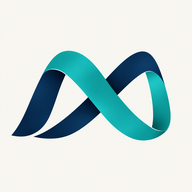
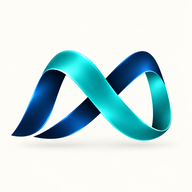
Keep public app shell available offline and refresh Mirkam branding

diff --git a/public/mirkam/index.html b/public/mirkam/index.html
@@ -1,6 +1,6 @@
-<!doctype html><html lang="he" dir="rtl"><head><meta charset="utf-8"><meta name="viewport" content="width=device-width,initial-scale=1"><link rel="manifest" href="/manifest.webmanifest?v=ribbon-1" crossorigin="use-credentials"><meta name="theme-color" content="#17324d"><meta name="apple-mobile-web-app-capable" content="yes"><meta name="apple-mobile-web-app-title" content="Mavrika AI"><link rel="icon" type="image/png" sizes="192x192" href="/icon-192.png?v=ribbon-1"><link rel="apple-touch-icon" href="/icon-192.png?v=ribbon-1"><title>מרקם ליין | Mavrika AI</title><link rel="stylesheet" href="/style.css"></head>
-<body><aside class="suite-sidebar"><div class="suite-brand">Mavrika AI<small>סביבת העבודה שלך</small></div><nav aria-label="קטגוריות התוכנה"><button id="suite-home">סקירה כללית</button><button id="suite-line">מרקם ליין · המודול המרכזי</button><button id="suite-chats">שיחות</button><button id="suite-documents">מסמכים וטיוטות</button><button id="suite-family">קשר עם המשפחה</button><button id="suite-management">ניהול המערכת</button></nav><p>מרקם ליין<small>חמש שלוחות טלפוניות, באותה מערכת</small></p></aside><main><header><div class="brand">MIRKAM <span>LINE</span><small>by Mavrika AI</small></div><p class="eyebrow">לכתוב. לשמור. לקבל עזרה.</p><h1>כל העבודה, במקום אחד.</h1><p>ברוכים הבאים למרקם ליין. כאן תוכלו להכין מסמכים, להמשיך שיחות ולשמור על קשר.</p></header>
-<button id="install-app" hidden>הוספה למסך הבית</button><div id="status" role="status" aria-live="polite"></div>
+<!doctype html><html lang="he" dir="rtl"><head><meta charset="utf-8"><meta name="viewport" content="width=device-width,initial-scale=1"><link rel="manifest" href="/manifest.webmanifest?v=ribbon-shine-3" crossorigin="use-credentials"><meta name="theme-color" content="#17324d"><meta name="apple-mobile-web-app-capable" content="yes"><meta name="apple-mobile-web-app-title" content="Mavrika AI"><link rel="icon" type="image/png" sizes="192x192" href="/icon-192.png?v=ribbon-shine-3"><link rel="apple-touch-icon" href="/icon-192.png?v=ribbon-shine-3"><title>מרקם ליין | Mavrika AI</title><link rel="stylesheet" href="/style.css"></head>
+<body><aside class="suite-sidebar"><div class="suite-brand"><img src="/icon-192.png?v=ribbon-shine-3" alt="" width="48" height="48">Mavrika AI<small>סביבת העבודה שלך</small></div><nav aria-label="קטגוריות התוכנה"><button id="suite-home">סקירה כללית</button><button id="suite-line">מרקם ליין · המודול המרכזי</button><button id="suite-chats">שיחות</button><button id="suite-documents">מסמכים וטיוטות</button><button id="suite-family">קשר עם המשפחה</button><button id="suite-management">ניהול המערכת</button></nav><p>מרקם ליין<small>חמש שלוחות טלפוניות, באותה מערכת</small></p></aside><main><header><div class="brand"><img class="brand-logo" src="/brand-logo.png?v=ribbon-shine-3" alt="Mirkam Line — מרקם ליין" width="768" height="768"><small>by Mavrika AI</small></div><p class="eyebrow">לכתוב. לשמור. לקבל עזרה.</p><h1>כל העבודה, במקום אחד.</h1><p>ברוכים הבאים למרקם ליין. כאן תוכלו להכין מסמכים, להמשיך שיחות ולשמור על קשר.</p></header>
+<button id="install-app" hidden>הוספה למסך הבית</button><div class="connection-panel" role="status" aria-live="polite"><span id="connection-state">בודקים חיבור לשירות…</span><button id="retry-connection" type="button" hidden>בדיקת חיבור</button></div><p id="offline-ready" class="muted"></p><div id="status" role="status" aria-live="polite"></div>
 <section id="login"><h2>כניסה לחשבון</h2><form id="login-form"><label>קוד משתמש<input id="code" inputmode="numeric" pattern="[0-9]{6}" maxlength="6" required autocomplete="username"></label><label>קוד אישי<input id="pin" type="password" inputmode="numeric" pattern="[0-9]{6}" maxlength="6" required autocomplete="current-password"></label><button class="primary">כניסה</button></form></section>
 <section id="workspace" hidden><div class="toolbar"><span id="welcome"></span><button id="home">התפריט הראשי</button><button id="logout">יציאה</button></div><nav id="branches" aria-label="שלוחות השירות"></nav><section id="pane"></section></section>
 <details id="admin" hidden><summary>ניהול Mavrika AI</summary><form id="staff-login-form"><h2>כניסה אישית לניהול</h2><label>שם משתמש<input id="staff-username" autocomplete="username" required></label><label>סיסמה<input id="staff-password" type="password" autocomplete="current-password" required></label><label>קוד מאפליקציית האימות<input id="staff-otp" inputmode="numeric" autocomplete="one-time-code" required></label><button class="primary">כניסה לניהול</button></form><button id="admin-logout">יציאה מניהול</button><details><summary>הגדרה ראשונית באמצעות קוד הניהול</summary><label>קוד הניהול<input id="admin-token" type="password" autocomplete="off"></label><label>קוד אימות נוסף, אם הוגדר<input id="otp" inputmode="numeric" autocomplete="one-time-code"></label><button id="owner-setup">יצירת המשתמש האישי של בעלת המערכת</button></details><div class="actions"><button id="admin-users">משתמשים</button><button id="admin-status">מצב חיבורים</button><button id="admin-destinations">יעדים מאומתים</button><button id="admin-contacts">אישור איש קשר</button><button id="admin-announcement">הודעת חברה</button><button id="admin-tickets">פניות משרד</button></div><section id="admin-pane"></section></details>

diff --git a/public/mirkam/style.css b/public/mirkam/style.css
@@ -1,3 +1,6 @@
 :root{--navy:#17324d;--teal:#238c87;--paper:#f6f4ef;--ink:#252c35}*{box-sizing:border-box}body{margin:0;background:var(--paper);font-family:Arial,sans-serif;color:var(--ink);line-height:1.7}main{max-width:1000px;margin:auto;padding:24px}header{padding:24px 0 36px}.brand{direction:ltr;text-align:right;font-size:30px;font-weight:800;letter-spacing:3px;color:var(--navy)}.brand span{color:var(--teal)}.brand small{display:block;font-size:12px;letter-spacing:1px}.eyebrow{color:var(--teal);font-weight:bold}h1{color:var(--navy);font-size:clamp(28px,5vw,46px);line-height:1.3}h2,h3{color:var(--navy)}section,details{background:white;padding:24px;margin-bottom:20px;border-radius:20px;border:1px solid #deded9}section section{padding:16px}label{display:block;margin:12px 0}input,textarea,select{display:block;width:100%;padding:14px;border:1px solid #aebbbd;border-radius:10px;font:inherit;margin-top:6px}textarea{min-height:130px;resize:vertical}button{font:inherit;background:#e9efed;color:var(--navy);border:1px solid #b9cbc8;padding:12px 20px;border-radius:12px;cursor:pointer;min-height:48px}.primary{background:var(--teal);color:white;border-color:var(--teal)}button:disabled{opacity:.5;cursor:wait}button:focus-visible,input:focus-visible,textarea:focus-visible{outline:3px solid #c38e32;outline-offset:2px}.actions,.toolbar{display:flex;flex-wrap:wrap;gap:10px;margin:16px 0}nav{display:grid;grid-template-columns:repeat(auto-fit,minmax(180px,1fr));gap:12px;margin-bottom:20px}nav button{text-align:right;min-height:95px;background:var(--navy);color:white}#status:not(:empty){padding:16px;background:#fff3ce;border-radius:12px;margin-bottom:16px}pre{font:inherit;white-space:pre-wrap;overflow-wrap:anywhere;background:var(--paper);padding:16px;border-radius:12px}footer{font-size:14px;color:#54616b;margin:24px 0}.muted{color:#64727b}.message{padding:12px;border-inline-start:3px solid var(--teal);background:#f2f7f6;margin:10px 0}summary{cursor:pointer;font-weight:bold}[hidden]{display:none!important}@media(max-width:600px){main{padding:12px}section,details{padding:18px}.actions button{flex:1}nav{grid-template-columns:1fr}nav button{min-height:65px}}
 
 body{display:grid;grid-template-columns:260px minmax(0,1fr)}main{width:100%;max-width:1100px}.suite-sidebar{background:var(--navy);color:white;padding:28px 18px;min-height:100vh;position:sticky;top:0;height:100vh;overflow:auto}.suite-brand{direction:ltr;font-size:27px;font-weight:bold}.suite-sidebar small{display:block;font-size:13px;font-weight:normal;opacity:.8}.suite-sidebar nav{display:flex;flex-direction:column;margin-top:30px}.suite-sidebar nav button{min-height:50px;border-color:#446078; background:transparent}.suite-sidebar nav button[aria-current="page"]{background:var(--teal);border-color:var(--teal)}.overview-grid{display:grid;grid-template-columns:repeat(auto-fit,minmax(220px,1fr));gap:12px}.overview-grid button{text-align:right;min-height:100px}#admin{scroll-margin-top:20px}@media(max-width:760px){body{display:block}.suite-sidebar{position:static;height:auto;min-height:0;padding:14px}.suite-sidebar nav{display:grid;grid-template-columns:repeat(2,minmax(0,1fr));margin:12px 0}.suite-sidebar nav button{font-size:14px;padding:8px}.suite-sidebar>p{display:none}header{padding:14px 0}h1{font-size:30px}}
+
+/* Refined Mirkam brand and a compact phone layout. */
+body{background:radial-gradient(ellipse at 25% 0%,#e5f6f2 0,transparent 48%),var(--paper)}.suite-sidebar{background:linear-gradient(160deg,#102b45,#174d60);border-inline-end:1px solid #ffffff20}.suite-brand{display:flex;align-items:center;gap:12px;flex-wrap:wrap}.suite-brand img{border-radius:14px}.suite-brand small{flex-basis:100%}.suite-sidebar nav button{border-radius:14px;transition:background .15s,transform .15s}.suite-sidebar nav button:hover{background:#ffffff14}.suite-sidebar nav button[aria-current="page"]{background:linear-gradient(120deg,#087d83,#1b9c92);box-shadow:0 5px 18px #001d3040}.brand-logo{display:block;width:min(100%,330px);height:auto;margin-inline-start:auto;border-radius:28px}.brand small{margin-top:8px;letter-spacing:1px}header{padding-top:0}h1{font-size:clamp(28px,4vw,42px)}section,details{border-color:#dce7e3;box-shadow:0 8px 28px #123f4b08}.primary{background:linear-gradient(120deg,#087d83,#18988c);box-shadow:0 4px 12px #178d8525}.connection-panel{display:flex;align-items:center;justify-content:space-between;gap:12px;padding:12px 16px;border:1px solid #d2e6df;background:#eef8f2;border-radius:14px;margin:16px 0 4px;font-size:14px}.connection-panel.unavailable{background:#fff4dd;border-color:#e8d6ad}.connection-panel button{font-size:13px;padding:8px 12px;flex-shrink:0}#offline-ready{font-size:13px;margin:6px 4px 16px}input,textarea{background:#fbfdfc}button:active{transform:translateY(1px)}@media(max-width:760px){.suite-sidebar{padding:12px 16px}.suite-brand{font-size:22px;gap:8px}.suite-brand img{width:36px;height:36px;border-radius:10px}.suite-brand small{flex-basis:auto;margin-inline-start:auto;font-size:11px}.suite-sidebar nav{grid-template-columns:repeat(3,minmax(0,1fr));gap:7px}.suite-sidebar nav button{font-size:12px;line-height:1.4;padding:8px 6px;min-height:48px}.brand-logo{width:220px;margin:0 auto}.brand small{text-align:center}header{text-align:center;padding-bottom:16px}.eyebrow{margin:10px 0}h1{font-size:28px;margin:12px 0}header>p:last-child{font-size:15px}.connection-panel{align-items:flex-start}main{padding:16px}}@media(prefers-reduced-motion:reduce){button{transition:none!important;transform:none!important}}

diff --git a/public/mirkam/app.js b/public/mirkam/app.js
@@ -11,7 +11,7 @@ function node(tag,text){const n=document.createElement(tag);if(text!==undefined)
 function clear(title){pane.replaceChildren(node('h2',title));}
 function button(text,fn,parent=pane){const b=node('button',text);b.onclick=()=>run(fn);parent.append(b);return b;}
 function input(label,type='text',parent=pane){const l=node('label',label),i=document.createElement(type==='textarea'?'textarea':'input');if(type!=='textarea')i.type=type;l.append(i);parent.append(l);return i;}
-async function api(route,method='GET',data,admin=false,binary=false){const controller=new AbortController(),timer=setTimeout(()=>controller.abort(),45000);try{const r=await fetch('/api/'+route,{method,headers:{Authorization:'Bearer '+(admin?(adminSession||$('admin-token').value):token),...(data?{'Content-Type':'application/json'}:{}),...(admin?{'X-Mirkam-OTP':$('otp').value}:{})},body:data?JSON.stringify(data):undefined,signal:controller.signal});if(binary&&r.ok)return r.blob();const v=await r.json();if(!r.ok||v.ok===false)throw Error(v.error||'הפעולה לא הושלמה.');return v;}catch(e){if(e.name==='AbortError')throw Error('השרת לא ענה בזמן. לפני משלוח נוסף בדקו את ההיסטוריה.');throw e;}finally{clearTimeout(timer);}}
+async function api(route,method='GET',data,admin=false,binary=false){if(!navigator.onLine)throw Error('אין חיבור לאינטרנט. כניסה, שיחות ושליחה יהיו זמינות כשהחיבור יחזור.');const controller=new AbortController(),timer=setTimeout(()=>controller.abort(),45000);try{const r=await fetch('/api/'+route,{method,headers:{Authorization:'Bearer '+(admin?(adminSession||$('admin-token').value):token),...(data?{'Content-Type':'application/json'}:{}),...(admin?{'X-Mirkam-OTP':$('otp').value}:{})},body:data?JSON.stringify(data):undefined,signal:controller.signal});if(binary&&r.ok)return r.blob();if(!r.headers.get('content-type')?.includes('application/json'))throw Error('השרת אינו נגיש או שנדרשת התחברות מחדש ל־GitHub. פתחו את השירות דרך Ports ב־Codespaces.');const v=await r.json();if(!r.ok||v.ok===false)throw Error(v.error||'הפעולה לא הושלמה.');return v;}catch(e){if(e instanceof TypeError)throw Error('לא ניתן להגיע לשרת כרגע. בדקו את החיבור ואת פעילות השרת.');if(e.name==='AbortError')throw Error('השרת לא ענה בזמן. לפני משלוח נוסף בדקו את ההיסטוריה.');throw e;}finally{clearTimeout(timer);}}
 async function run(fn){if(busy)return;busy=true;$('status').textContent='';document.querySelectorAll('button').forEach(b=>b.disabled=true);try{await fn();}catch(e){$('status').textContent=e.message;}finally{busy=false;document.querySelectorAll('button').forEach(b=>b.disabled=false);}}
 function speak(text){if(!window.speechSynthesis){$('status').textContent='הקראה אינה נתמכת בדפדפן הזה.';return;}speechSynthesis.cancel();const voice=speechSynthesis.getVoices().find(v=>/^he/i.test(v.lang));if(!voice){$('status').textContent='לא נמצא קול עברי בדפדפן. הקול הטלפוני מוגדר בנפרד.';return;}for(const part of String(text).match(/[\s\S]{1,600}/g)||[]){const u=new SpeechSynthesisUtterance(part);u.lang='he-IL';u.voice=voice;u.rate=.9;speechSynthesis.speak(u);}}
 async function audio(target,draftId){if(!navigator.mediaDevices?.getUserMedia||!window.MediaRecorder)throw Error('הקלטה דורשת דפדפן נתמך וכתובת מאובטחת.');if(recorder?.state==='recording')throw Error('הקלטה כבר פועלת.');stream=await navigator.mediaDevices.getUserMedia({audio:true});const mime=['audio/webm','audio/mp4'].find(m=>MediaRecorder.isTypeSupported(m));recorder=new MediaRecorder(stream,mime?{mimeType:mime}:{});const parts=[];const stop=button('סיום הקלטה',async()=>recorder.stop());let timer;recorder.ondataavailable=e=>{if(e.data.size)parts.push(e.data);};recorder.onstop=()=>{clearTimeout(timer);stream.getTracks().forEach(t=>t.stop());stop.remove();run(async()=>{const blob=new Blob(parts,{type:recorder.mimeType});if(!blob.size)throw Error('ההקלטה ריקה.');const base64=await new Promise((resolve,reject)=>{const r=new FileReader();r.onload=()=>resolve(String(r.result).split(',')[1]);r.onerror=reject;r.readAsDataURL(blob);});const response=await api('transcribe','POST',{audio:base64,mime:recorder.mimeType,...(draftId?{draftId}:{})});target.value=response.text;$('status').textContent='התמלול התקבל. בדקו אותו לפני אישור.';});};recorder.start();timer=setTimeout(()=>{if(recorder.state==='recording')recorder.stop();},180000);$('status').textContent='מקליטים. בסיום לחצו על סיום הקלטה.';}

diff --git a/scripts/mirkam-tests/pwa.test.js b/scripts/mirkam-tests/pwa.test.js
@@ -1,0 +1,23 @@
+import test from 'node:test';
+import assert from 'node:assert/strict';
+import vm from 'node:vm';
+import fs from 'node:fs';
+const code=fs.readFileSync(new URL('../../public/mirkam/sw.js',import.meta.url),'utf8');
+function fixture(){
+ const events={},stores=new Map();let network;
+ const caches={async open(name){if(!stores.has(name))stores.set(name,new Map());const m=stores.get(name);return {async put(k,v){m.set(k,v.clone());},async match(k){return m.get(k)?.clone();}};},async keys(){return [...stores.keys()];},async delete(k){return stores.delete(k);}};
+ const asset=req=>{const p=new URL(req.url).pathname;return new Response(p==='/'?'<main id="suite-home">public shell</main>':'asset',{headers:{'content-type':p==='/'?'text/html':p.endsWith('.js')?'text/javascript':p.endsWith('.css')?'text/css':p.endsWith('.png')?'image/png':'application/manifest+json'}});};
+ network=asset;
+ vm.runInNewContext(code,{URL,Request,Response,AbortSignal,caches,fetch:(...args)=>network(...args),self:{location:{origin:'https://example.test'},addEventListener:(n,f)=>events[n]=f,skipWaiting:async()=>{},clients:{claim:async()=>{}}}});
+ return {stores,setNetwork:f=>network=f,async install(){let p;events.install({waitUntil:x=>p=x});await p;},async activate(){let p;events.activate({waitUntil:x=>p=x});await p;},get(path='/',method='GET',mode='navigate'){let p;events.fetch({request:{url:new URL(path,'https://example.test').href,method,mode},respondWith:x=>p=x});return p;},async status(){let p,result;events.message({data:{type:'OFFLINE_STATUS'},ports:[{postMessage:x=>result=x}],waitUntil:x=>p=x});await p;return result.ready;}};
+}
+test('complete public shell is required before offline readiness',async()=>{const f=fixture();assert.equal(await f.status(),false);await f.install();assert.equal(await f.status(),true);assert.equal(f.stores.get('mirkam-shell-v3').size,8);});
+test('offline navigation opens cached application',async()=>{const f=fixture();await f.install();f.setNetwork(()=>{throw Error('offline');});assert.match(await (await f.get()).text(),/public shell/);});
+for(const status of [401,403,500,503])test(`server ${status} opens cached application`,async()=>{const f=fixture();await f.install();f.setNetwork(()=>new Response('unavailable',{status}));assert.match(await (await f.get()).text(),/public shell/);});
+test('login HTML is never substituted for cached application',async()=>{const f=fixture();await f.install();f.setNetwork(()=>new Response('GitHub login',{headers:{'content-type':'text/html'}}));assert.match(await (await f.get()).text(),/public shell/);});
+test('failed installation does not cache authentication pages',async()=>{const f=fixture();f.setNetwork(()=>new Response('login',{headers:{'content-type':'text/html'}}));await assert.rejects(f.install());assert.equal(f.stores.size,0);});
+for(const path of ['/api/chats','/api/documents','/health','https://other.test/'])test(`does not intercept ${path}`,()=>assert.equal(fixture().get(path),undefined));
+test('does not intercept POST',()=>assert.equal(fixture().get('/','POST'),undefined));
+test('activation deletes only outdated application caches',async()=>{const f=fixture();f.stores.set('mirkam-shell-v1',new Map());f.stores.set('unrelated',new Map());await f.install();await f.activate();assert.equal(f.stores.has('mirkam-shell-v1'),false);assert.equal(f.stores.has('unrelated'),true);assert.equal(await f.status(),true);});
+test('first offline visit reports setup requirement without claiming readiness',async()=>{const f=fixture();f.setNetwork(()=>{throw Error('offline');});assert.equal((await f.get()).status,503);assert.equal(await f.status(),false);});
+test('versioned icon requests work offline',async()=>{const f=fixture();await f.install();f.setNetwork(()=>{throw Error('offline');});assert.equal((await f.get('/icon-192.png?v=new','GET','cors')).status,200);});

diff --git a/public/mirkam/install.js b/public/mirkam/install.js
@@ -9,4 +9,45 @@ installButton.addEventListener('click',async()=>{
   if(installPrompt){const prompt=installPrompt;installPrompt=null;try{await prompt.prompt();await prompt.userChoice;}catch{document.getElementById('status').textContent='אפשר להתקין דרך תפריט הדפדפן: הוספה למסך הבית.';}}
   else document.getElementById('status').textContent=/iPad|iPhone|iPod/.test(navigator.userAgent)?'ב־Safari לחצו על שיתוף ואז ״הוספה למסך הבית״.':'פתחו את תפריט הדפדפן ובחרו ״התקנת אפליקציה״ או ״הוספה למסך הבית״. נדרש אתר HTTPS פעיל; האפשרות תלויה בדפדפן.';
 });
-if('serviceWorker' in navigator&&window.isSecureContext)navigator.serviceWorker.register('/sw.js').catch(()=>{document.getElementById('status').textContent='הגדרת ההתקנה לא הושלמה. אפשר להמשיך בדפדפן ולנסות שוב מאוחר יותר.';});
+if('serviceWorker' in navigator&&window.isSecureContext)navigator.serviceWorker.register('/sw.js',{updateViaCache:'none'}).catch(()=>{document.getElementById('status').textContent='הגדרת ההתקנה לא הושלמה. אפשר להמשיך בדפדפן ולנסות שוב מאוחר יותר.';});
+
+const connectionState=document.getElementById('connection-state');
+const retryConnection=document.getElementById('retry-connection');
+const offlineReady=document.getElementById('offline-ready');
+let checking=false;
+async function checkConnection(){
+  if(checking)return;checking=true;
+  let available=false,message='אין אינטרנט. מסך התוכנה זמין; כניסה, AI ושליחה דורשים חיבור.';
+  try{
+    if(navigator.onLine){
+      const response=await fetch('/health',{cache:'no-store',signal:AbortSignal.timeout(4000)});
+      available=response.ok&&!response.redirected&&response.headers.get('content-type')?.includes('application/json');
+      if(available)await response.json();
+      message=available?'מחוברים לשירות': 'השרת אינו זמין או שנדרשת התחברות ל־GitHub. אפשר לפתוח את השירות דרך Ports ב־Codespaces.';
+    }
+  }catch{available=false;message='השרת אינו זמין כרגע. מסך התוכנה נשאר פתוח; הפעולות יתחדשו כשהשירות יחזור.';}
+  connectionState.textContent=message;
+  connectionState.parentElement.classList.toggle('unavailable',!available);
+  retryConnection.hidden=available;checking=false;
+}
+function checkOfflineReady(){
+  const controller=navigator.serviceWorker?.controller;
+  offlineReady.textContent='מכינים את התוכנה לפתיחה ללא אינטרנט…';
+  if(!controller)return;
+  const channel=new MessageChannel();
+  const timer=setTimeout(()=>{channel.port1.close();offlineReady.textContent='פתיחה ללא אינטרנט עדיין לא אושרה. השאירו את המסך פתוח כשהשירות מחובר.';},6000);
+  channel.port1.onmessage=event=>{
+    clearTimeout(timer);channel.port1.close();
+    offlineReady.textContent=event.data.ready?'מוכן לפתיחה ללא אינטרנט. כניסה, AI ושליחה דורשים חיבור.':'ההכנה לפתיחה ללא אינטרנט טרם הושלמה.';
+  };
+  controller.postMessage({type:'OFFLINE_STATUS'},[channel.port2]);
+}
+retryConnection.addEventListener('click',checkConnection);
+window.addEventListener('online',checkConnection);
+window.addEventListener('offline',checkConnection);
+window.addEventListener('focus',checkConnection);
+checkConnection();
+if('serviceWorker' in navigator){
+  navigator.serviceWorker.addEventListener('controllerchange',checkOfflineReady);
+  navigator.serviceWorker.ready.then(checkOfflineReady);
+}

diff --git a/public/mirkam/sw.js b/public/mirkam/sw.js
@@ -1,7 +1,47 @@
 'use strict';
-// Network only: never cache authenticated pages, documents, credentials or API replies.
-self.addEventListener('install',()=>self.skipWaiting());
-self.addEventListener('activate',event=>event.waitUntil(self.clients.claim()));
+// Only the public application shell is cached. Never API responses or personal records.
+const SHELL_CACHE='mirkam-shell-v3';
+const SHELL_FILES=['/','/app.js','/style.css','/install.js','/manifest.webmanifest','/icon-192.png','/icon-512.png','/brand-logo.png'];
+const expectedType=path=>path==='/'?'text/html':path.endsWith('.js')?'javascript':path.endsWith('.css')?'text/css':path.endsWith('.png')?'image/png':'manifest+json';
+async function valid(response,path){
+  if(!response?.ok||response.redirected||!response.headers.get('content-type')?.includes(expectedType(path)))return false;
+  return path!=='/'||(await response.clone().text()).includes('id="suite-home"');
+}
+self.addEventListener('install',event=>event.waitUntil((async()=>{
+  // Fetch and validate all assets before replacing any stored shell.
+  const responses=await Promise.all(SHELL_FILES.map(async path=>{
+    const r=await fetch(new Request(new URL(path,self.location.origin),{credentials:'include',cache:'reload',redirect:'error'}));
+    if(!await valid(r,path))throw Error('Application shell unavailable');return r;
+  }));
+  const cache=await caches.open(SHELL_CACHE);
+  await Promise.all(SHELL_FILES.map((path,i)=>cache.put(path,responses[i])));
+  await self.skipWaiting();
+})()));
+self.addEventListener('activate',event=>event.waitUntil((async()=>{
+  for(const name of await caches.keys())if(name.startsWith('mirkam-shell-')&&name!==SHELL_CACHE)await caches.delete(name);
+  await self.clients.claim();
+})()));
+self.addEventListener('message',event=>{
+  if(event.data?.type==='OFFLINE_STATUS'&&event.ports?.[0])event.waitUntil((async()=>{
+    const cache=await caches.open(SHELL_CACHE);
+    const ready=(await Promise.all(SHELL_FILES.map(path=>cache.match(path)))).every(Boolean);
+    event.ports[0].postMessage({ready});
+  })());
+});
 self.addEventListener('fetch',event=>{
-  if(event.request.mode==='navigate')event.respondWith(fetch(event.request).catch(()=>new Response('<!doctype html><html lang="he" dir="rtl"><meta charset="utf-8"><meta name="viewport" content="width=device-width,initial-scale=1"><title>Mavrika AI</title><h1>נדרש חיבור לאינטרנט</h1><p>חזרו לתוכנה לאחר שהחיבור יחזור. הכניסה תיבדק מחדש.</p></html>',{status:503,headers:{'Content-Type':'text/html; charset=utf-8','Cache-Control':'no-store'}})));
+  const url=new URL(event.request.url);
+  if(event.request.method!=='GET'||url.origin!==self.location.origin||!SHELL_FILES.includes(url.pathname))return;
+  event.respondWith((async()=>{
+    const cache=await caches.open(SHELL_CACHE),saved=await cache.match(url.pathname);
+    if(event.request.mode!=='navigate'&&saved)return saved;
+    try{
+      const r=await fetch(event.request,{signal:AbortSignal.timeout(4000)});
+      if(await valid(r,url.pathname))return r;
+      if(saved)return saved;
+      return r;
+    }catch{
+      if(saved)return saved;
+      return new Response('<!doctype html><html lang="he" dir="rtl"><meta charset="utf-8"><meta name="viewport" content="width=device-width,initial-scale=1"><title>מרקם ליין</title><h1>צריך חיבור ראשון להשלמת ההתקנה</h1><p>פתחו שוב כשהאינטרנט והשרת זמינים.</p></html>',{status:503,headers:{'Content-Type':'text/html; charset=utf-8','Cache-Control':'no-store'}});
+    }
+  })());
 });

diff --git a/scripts/mirkam-tests/http.test.js b/scripts/mirkam-tests/http.test.js
@@ -50,7 +50,7 @@ test('telephone menu exposes oversight only to explicitly authorized user',async
 test('oversight login cannot approve a contact through admin routes',async t=>{const {server,service}=fixture(t),u=enroll(service);service.oversight.grant(u.user.id,'owner');const l=service.identity.login(u.user.code,u.pin);const r=await request(server,'/api/admin/contacts',{method:'POST',token:l.token,body:{userId:u.user.id,name:'שם',email:'test@example.test'}});assert.equal(r.status,401);});
 test('oversight HTTP blocking requires explicit confirmation',async t=>{const {server,service}=fixture(t),a=enroll(service),b=enroll(service,'987654321');service.oversight.grant(a.user.id,'owner');const l=service.identity.login(a.user.code,a.pin);const r=await request(server,'/api/oversight/status',{method:'POST',token:l.token,body:{code:b.user.code,active:false}});assert.equal(r.status,400);assert.equal(service.identity.user(b.user.id).active,true);});
 test('installable manifest and both PNG icons are served with correct types',async t=>{const {server}=fixture(t),r=await request(server,'/manifest.webmanifest');assert.equal(r.status,200);assert.match(r.headers['Content-Type'],/manifest\+json/);assert.equal(r.body.display,'standalone');assert.equal(r.body.start_url,'/');for(const icon of r.body.icons){const response=await request(server,icon.src);assert.equal(response.status,200);assert.equal(response.headers['Content-Type'],'image/png');}});
-test('home advertises install manifest and service worker provides no persistent cache',async t=>{const {server}=fixture(t),home=await request(server,'/'),sw=await request(server,'/sw.js');assert.match(home.text,/rel="manifest"/);assert.match(home.text,/install-app/);assert.equal(sw.status,200);assert.doesNotMatch(sw.text,/caches\.(open|match|put)|localStorage/);assert.match(sw.text,/נדרש חיבור לאינטרנט/);});
+test('home advertises install manifest and public offline shell',async t=>{const {server}=fixture(t),home=await request(server,'/'),sw=await request(server,'/sw.js'),logo=await request(server,'/brand-logo.png');assert.match(home.text,/rel="manifest"/);assert.match(home.text,/offline-ready/);assert.equal(sw.status,200);assert.match(sw.text,/SHELL_FILES/);assert.doesNotMatch(sw.text,/localStorage/);assert.equal(logo.status,200);});
 
 test('private Codespaces manifest discovery includes authentication credentials',async t=>{const {server}=fixture(t),page=await request(server,'/');const tag=page.text.match(/<link\b[^>]*rel="manifest"[^>]*>/)?.[0];assert.ok(tag);assert.match(tag,/crossorigin="use-credentials"/);const href=tag.match(/href="([^"]+)"/)[1];const manifest=await request(server,href);assert.equal(manifest.status,200);assert.equal(manifest.body.scope,'/');assert.equal(manifest.body.display,'standalone');assert.equal((await request(server,manifest.body.start_url)).status,200);});
 test('browser tab icon points at a served application PNG instead of a default host icon',async t=>{const {server}=fixture(t),page=await request(server,'/');const tag=page.text.match(/<link\b[^>]*rel="icon"[^>]*>/)?.[0];assert.ok(tag);const href=tag.match(/href="([^"]+)"/)[1],icon=await request(server,href);assert.equal(icon.status,200);assert.equal(icon.headers['Content-Type'],'image/png');assert.match(icon.text,/PNG/);});

diff --git a/src/mirkam/http.js b/src/mirkam/http.js
@@ -31,7 +31,7 @@ export function createMirkamServer(service){
       if(route.startsWith('/voice/')&&method==='POST')return await voice(req,res);
       if(route==='/health')return send({ok:true,service:'Mirkam Line',version:'0.2.2'});
       if(!route.startsWith('/api/')){
-        const allowed={'/':'index.html','/app.js':'app.js','/style.css':'style.css','/manifest.webmanifest':'manifest.webmanifest','/sw.js':'sw.js','/install.js':'install.js','/icon-192.png':'icon-192.png','/icon-512.png':'icon-512.png'};if(!allowed[route]||method!=='GET'){res.writeHead(404);return res.end();}
+        const allowed={'/':'index.html','/app.js':'app.js','/style.css':'style.css','/manifest.webmanifest':'manifest.webmanifest','/sw.js':'sw.js','/install.js':'install.js','/icon-192.png':'icon-192.png','/icon-512.png':'icon-512.png','/brand-logo.png':'brand-logo.png'};if(!allowed[route]||method!=='GET'){res.writeHead(404);return res.end();}
         res.setHeader('Content-Type',route.endsWith('.webmanifest')?'application/manifest+json; charset=utf-8':route.endsWith('.png')?'image/png':route.endsWith('.js')?'text/javascript; charset=utf-8':route.endsWith('.css')?'text/css; charset=utf-8':'text/html; charset=utf-8');return res.end(fs.readFileSync(path.join(publicDir,allowed[route])));
       }
       const origin=req.headers.origin;if(origin&&new URL(origin).host!==req.headers.host)return send({ok:false,error:'גישה מאתר אחר נחסמה.'},403);

diff --git a/docs/OFFLINE-UPDATE-HE.md b/docs/OFFLINE-UPDATE-HE.md
@@ -1,0 +1,15 @@
+# פתיחה ללא אינטרנט והמיתוג החדש
+
+הגרסה שומרת רק את מעטפת התוכנה הציבורית: HTML, קוד ממשק, עיצוב וסמלים. אין שמירה של תשובות API, שיחות, מסמכים או פרטי כניסה במטמון הזה.
+
+עדכון ב־Codespaces:
+
+```bash
+git pull --ff-only origin main && bash scripts/restart-codespaces.sh
+```
+
+פתחו את פורט 3000 דרך Ports בחיבור הפרטי ורעננו את התוכנה. המתינו להודעה ״מוכן לפתיחה ללא אינטרנט״ לפני בדיקה במצב טיסה. השרת חייב להיות זמין בהכנה הראשונה. אין צורך להסיר את ההתקנה כדי לעדכן את המסכים; עדכון האייקון המותקן תלוי בדפדפן ועלול להתעכב.
+
+לאחר ההכנה, המעטפת השמורה מוצגת גם בכשל רשת או בתשובות שרת 401/403/500/503. כניסה, AI, מסמכים ושליחה דורשים שרת זמין. אין הבטחת זמינות אם הדפדפן מחק את אחסון האתר. Codespaces הוא סביבת פיתוח שיכולה להיעצר; להשקה דרוש שרת קבוע. התקנה אינה מחליפה שרת.
+
+אימות: 156 בדיקות Node עברו, מתוכן 16 בדיקות התנהגות של Service Worker בסביבה מדומה. נבדקו מטמון ציבורי, כשלי שרת, מצב ללא רשת, מניעת שמירת API ושמירת מטמון קודם כשהתקנה חדשה נכשלת. לא בוצעה בדיקה בדפדפן הטלפון או בדיקת הפעלה חיה בסביבה זו.
